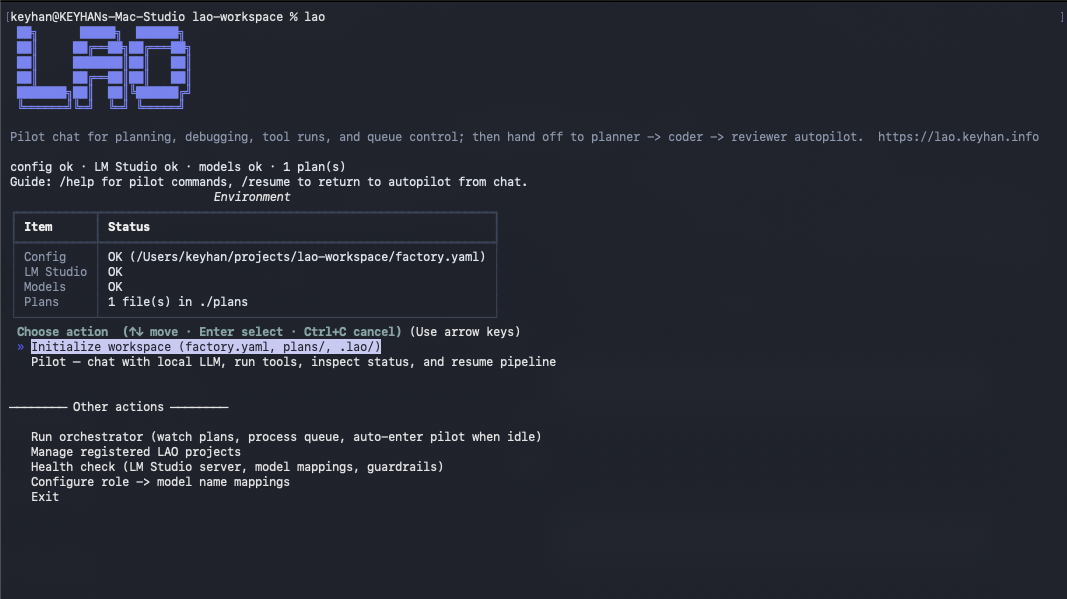
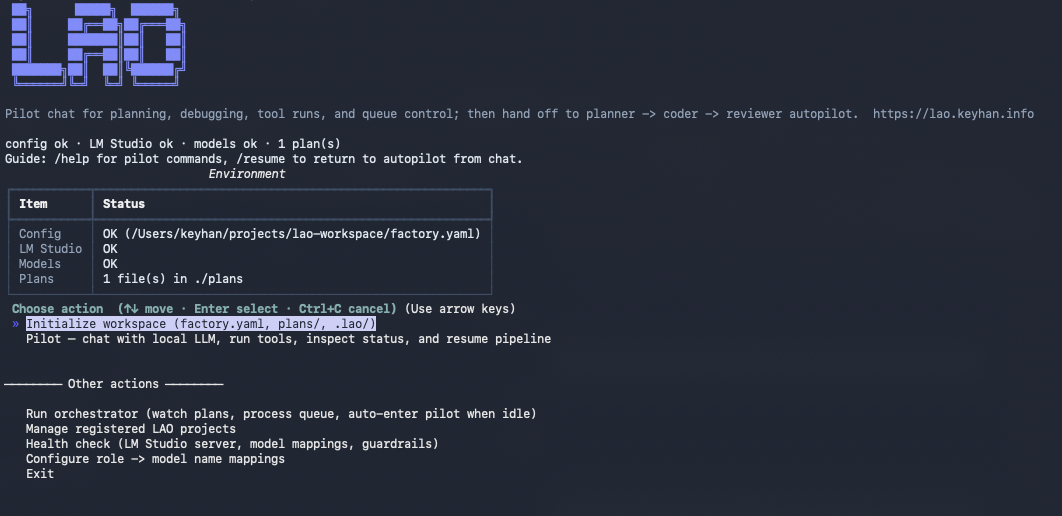
Release v3.0.7: README hero screenshot and refreshed home menu asset
README: centered home menu image under title; remove duplicate from Pilot section.
Bump package and site strings to v3.0.7 for PyPI/GitHub release.

Made-with: Cursor

Changed region(s): [[0.0, 0.0, 1.0, 0.6822], [0.0, 0.7132, 0.5282, 0.9302]]

diff --git a/docs/index.html b/docs/index.html
@@ -10,7 +10,7 @@
   <meta charset="utf-8" />
   <meta name="viewport" content="width=device-width, initial-scale=1" />
   <meta name="description"
-    content="Install LAO via pip or one-line curl; then Pilot Mode + planner→coder→reviewer orchestration for LM Studio. SQLite state, project registry, unified TTY UI. LAO v3.0.6." />
+    content="Install LAO via pip or one-line curl; then Pilot Mode + planner→coder→reviewer orchestration for LM Studio. SQLite state, project registry, unified TTY UI. LAO v3.0.7." />
   <title>LAO · Pilot Mode &amp; local coding orchestration</title>
   <style>
     :root {
@@ -561,7 +561,7 @@
   <header class="hero" id="top">
     <div class="hero-mesh" aria-hidden="true"></div>
     <div class="hero-inner">
-      <p class="eyebrow"><span></span> v3.0.6 · Install first · Pilot Mode · LM Studio</p>
+      <p class="eyebrow"><span></span> v3.0.7 · Install first · Pilot Mode · LM Studio</p>
       <div class="hero-head">
         <div class="hero-head-text">
           <h1>Orchestration and <br> an interactive Pilot in one terminal</h1>
@@ -626,7 +626,7 @@
     <div class="feature-grid">
       <article class="card reveal">
         <div class="card-icon mint-bg">🧭</div>
-        <span class="tag">v3.0.6</span>
+        <span class="tag">v3.0.7</span>
         <h3>Pilot Mode</h3>
         <p>Interactive agent with filesystem + shell tools, pipeline introspection, plan creation, <code>/project</code>
           switching, and guardrails when tools error repeatedly.</p>
@@ -671,7 +671,7 @@
       </article>
       <article class="card reveal reveal-delay-1">
         <div class="card-icon mint-bg">📂</div>
-        <span class="tag">v3.0.6</span>
+        <span class="tag">v3.0.7</span>
         <h3>Project registry</h3>
         <p><code>lao projects scan|use|list</code> tracks known workspaces under <code>~/.lao/projects.json</code> so
           you aren't stuck in a parent directory without <code>factory.yaml</code>.</p>
@@ -721,7 +721,7 @@
   <section id="experience" class="smaller" aria-labelledby="experience-h">
     <div class="reveal">
       <p class="section-title" id="experience-h">In the terminal</p>
-      <h2>See LAO v3.0.6</h2>
+      <h2>See LAO v3.0.7</h2>
       <p style="margin:-1rem 0 1.5rem;color:var(--muted);font-size:0.95rem;max-width:40rem;">
         Grouped home menu for first-time operators; Pilot chat with scrollback, slash commands, and a live status
         strip—same build you get from <code>pip install</code>.

diff --git a/tests/test_cli_interactive.py b/tests/test_cli_interactive.py
@@ -128,7 +128,7 @@ class TestCliInteractiveHelpers(unittest.TestCase):
             with self.assertRaises(SystemExit) as cm:
                 cli.main(["-v"])
         self.assertEqual(cm.exception.code, 0)
-        self.assertIn("lao 3.0.6", out.getvalue())
+        self.assertIn("lao 3.0.7", out.getvalue())
 
     def test_main_version_flag_long(self):
         out = io.StringIO()
@@ -136,7 +136,7 @@ class TestCliInteractiveHelpers(unittest.TestCase):
             with self.assertRaises(SystemExit) as cm:
                 cli.main(["--version"])
         self.assertEqual(cm.exception.code, 0)
-        self.assertIn("lao 3.0.6", out.getvalue())
+        self.assertIn("lao 3.0.7", out.getvalue())
 
 
 if __name__ == "__main__":

diff --git a/src/local_ai_agent_orchestrator/__init__.py b/src/local_ai_agent_orchestrator/__init__.py
@@ -1,4 +1,4 @@
 # SPDX-License-Identifier: GPL-3.0-or-later
 """Local AI Agent Orchestrator -- multi-phase LM Studio coding pipeline."""
 
-__version__ = "3.0.6"
+__version__ = "3.0.7"

diff --git a/README.md b/README.md
@@ -1,6 +1,10 @@
 # Local AI Agent Orchestrator (LAO)
 
-**LAO** (**v3.0.6+**) is a local coding factory for [LM Studio](https://lmstudio.ai/) and other **OpenAI-compatible** servers: a **planner → coder → reviewer** pipeline for long-running work, plus **Pilot Mode**—an interactive, agentic chat on your terminal that can run workspace tools, inspect the queue, create plans, switch projects, and hand control back to autopilot when you type **`/resume`**. Everything is backed by **SQLite**, **memory-aware model swapping**, optional **per-plan Git**, and a unified **TTY experience** (Rich + prompt_toolkit).
+<p align="center">
+  <img alt="LAO interactive home menu with grouped actions" src="https://raw.githubusercontent.com/KEYHAN-A/local-ai-agent-orchestrator/main/docs/assets/lao-home-menu.png" width="780"/>
+</p>
+
+**LAO** (**v3.0.7+**) is a local coding factory for [LM Studio](https://lmstudio.ai/) and other **OpenAI-compatible** servers: a **planner → coder → reviewer** pipeline for long-running work, plus **Pilot Mode**—an interactive, agentic chat on your terminal that can run workspace tools, inspect the queue, create plans, switch projects, and hand control back to autopilot when you type **`/resume`**. Everything is backed by **SQLite**, **memory-aware model swapping**, optional **per-plan Git**, and a unified **TTY experience** (Rich + prompt_toolkit).
 
 [![PyPI version](https://img.shields.io/pypi/v/local-ai-agent-orchestrator.svg?label=PyPI&logo=pypi)](https://pypi.org/project/local-ai-agent-orchestrator/)
 [![Python versions](https://img.shields.io/pypi/pyversions/local-ai-agent-orchestrator.svg)](https://pypi.org/project/local-ai-agent-orchestrator/)
@@ -72,7 +76,7 @@ curl -fsSL https://raw.githubusercontent.com/KEYHAN-A/local-ai-agent-orchestrato
 
 Trust trade-off: piping to `bash` always means you trust the host and transport. Many people prefer the **raw.githubusercontent.com** URL because the path maps cleanly to `main/scripts/install.sh` in this repository. The **lao.keyhan.info** URL is the same behavior after one redirect through the small bootstrap.
 
-Optional environment variables: **`LAO_VERSION`** (pin a release, e.g. `3.0.6`), **`LAO_PACKAGE`** (override PyPI name).
+Optional environment variables: **`LAO_VERSION`** (pin a release, e.g. `3.0.7`), **`LAO_PACKAGE`** (override PyPI name).
 
 ### Homebrew ecosystem
 
@@ -170,11 +174,6 @@ python main.py health
 - **Exiting chat:** Double **Ctrl+C** exits the prompt; **Ctrl+D** (EOF) also ends input.
 
 ### Screenshots
-
-<p align="center">
-  <b>Interactive home</b><br/>
-  <img alt="LAO interactive home menu with grouped actions" src="https://raw.githubusercontent.com/KEYHAN-A/local-ai-agent-orchestrator/main/docs/assets/lao-home-menu.png" width="780"/>
-</p>
 <p align="center">
   <b>Pilot Mode</b><br/>
   <img alt="LAO Pilot Mode chat with status bar and LAO ASCII branding" src="https://raw.githubusercontent.com/KEYHAN-A/local-ai-agent-orchestrator/main/docs/assets/lao-pilot-mode.png" width="780"/>
@@ -198,7 +197,7 @@ flowchart LR
   pilot --> home2["Exit"]
 ```
 
-Full release notes: **[CHANGELOG.md](CHANGELOG.md)** (latest: `v3.0.6`; Pilot highlights in `v3.0.4`).
+Full release notes: **[CHANGELOG.md](CHANGELOG.md)** (latest: `v3.0.7`; Pilot highlights in `v3.0.4`).
 
 ---
 
@@ -399,4 +398,4 @@ Issues and pull requests are welcome. See **[docs/CONTRIBUTING.md](docs/CONTRIBU
 - **Install the latest build:** `pip install -U local-ai-agent-orchestrator`
 - **GitHub Releases:** [github.com/KEYHAN-A/local-ai-agent-orchestrator/releases](https://github.com/KEYHAN-A/local-ai-agent-orchestrator/releases)
 
-**Recent highlights (v3.0.6):** README **Installation** surfaced up front (TOC + section order) alongside curl/pipx install paths; **LAO Pilot Mode** (v3.0.4+) adds interactive agentic chat, project registry (`lao projects`, `/project`), grouped home menu, and hardened terminal UX. See **[CHANGELOG.md](CHANGELOG.md)**.
+**Recent highlights (v3.0.7):** README opens with the **home menu** screenshot; **Installation** stays up front in the TOC; **LAO Pilot Mode** (v3.0.4+) adds interactive agentic chat, project registry (`lao projects`, `/project`), grouped home menu, and hardened terminal UX. See **[CHANGELOG.md](CHANGELOG.md)**.

diff --git a/CHANGELOG.md b/CHANGELOG.md
@@ -2,6 +2,10 @@
 
 All notable changes to **Local AI Agent Orchestrator** are recorded here. For install and usage, see [README.md](README.md).
 
+## v3.0.7 — README hero screenshot & home menu asset
+
+- **README:** Home menu image moved to the top (under the title); duplicate screenshot removed from the Pilot section; refreshed **`docs/assets/lao-home-menu.png`** for PyPI and GitHub rendering.
+
 ## v3.0.6 — README & site: installation up front
 
 - **README:** **Installation** is first in the table of contents and appears immediately after the TOC (before **Features**).
